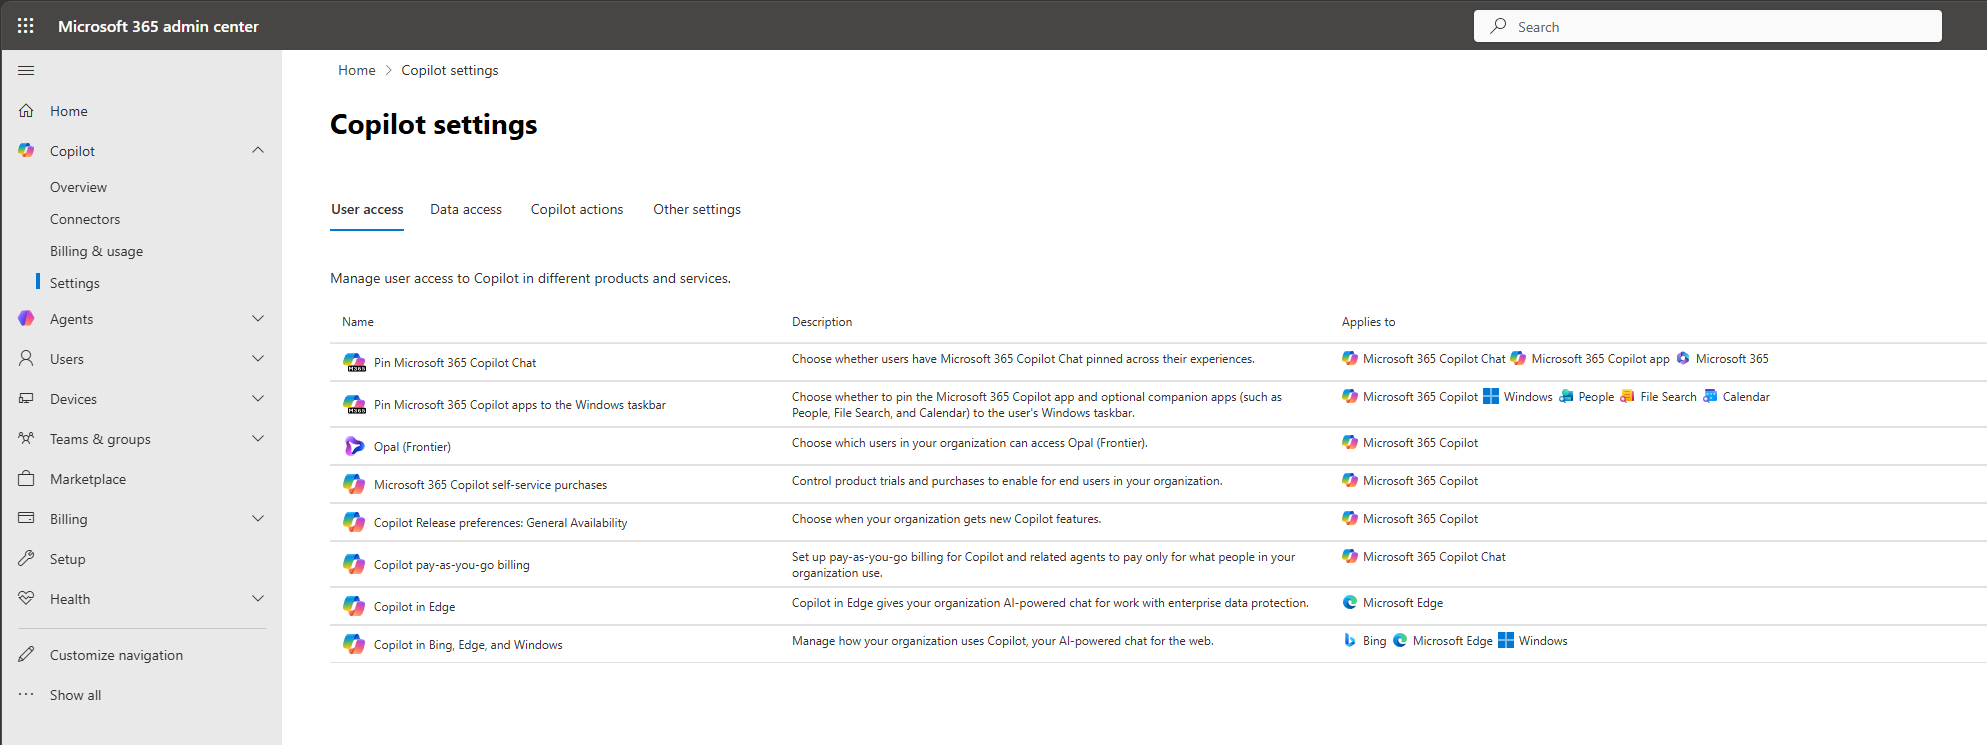
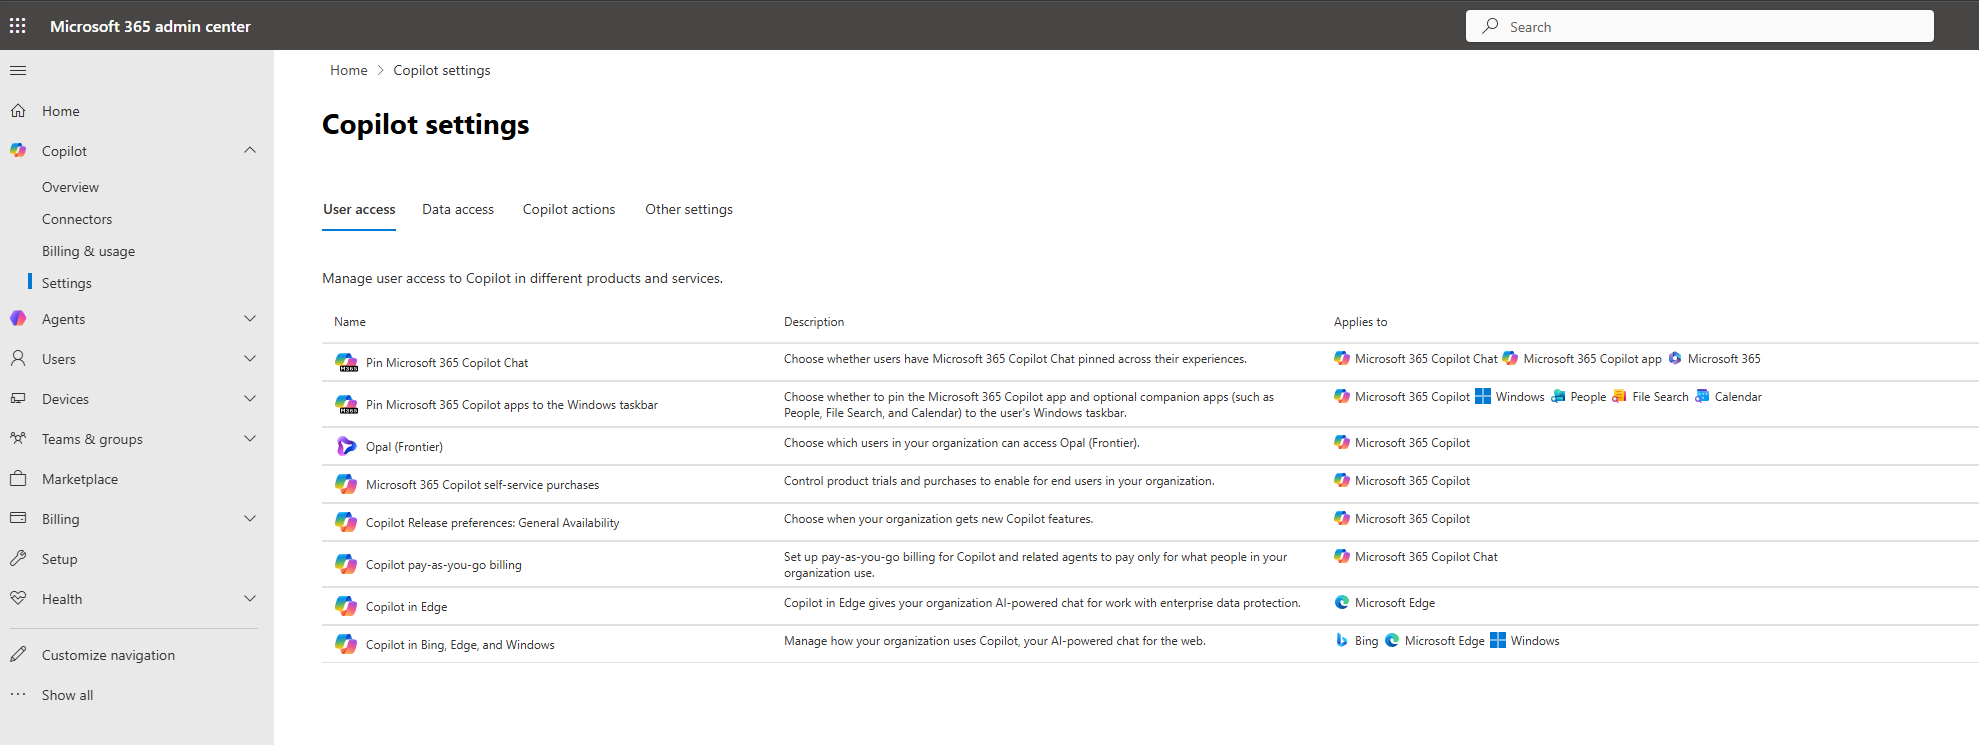
Updated image

diff --git a/microsoft-365/admin/manage/configure-release-options.md b/microsoft-365/admin/manage/configure-release-options.md
@@ -93,7 +93,11 @@ To assign users to the Deferred release audience, follow these steps:
 1. Sign in to the Microsoft 365 admin center.
 1. In the left navigation, expand **Copilot** and select **Settings**.
 
+<<<<<<< Updated upstream
     :::image type="content" source="../../media/copilot-settings-admin-center.png" alt-text="Screenshot of Copilot settings in Microsoft 365 admin center.":::
+=======
+    :::image type="content" source="../../media/copilot-settings-admin-center.png" lightbox="../../media/copilot-settings-admin-center-expanded.png" alt-text="Screenshot of Copilot settings in Microsoft 365 admin center.":::
+>>>>>>> Stashed changes
 
 1. Under the **All Settings** tab, select **Copilot release preferences: General Availability**.
 1. Choose either **Standard Release** or **Deferred Release**.
